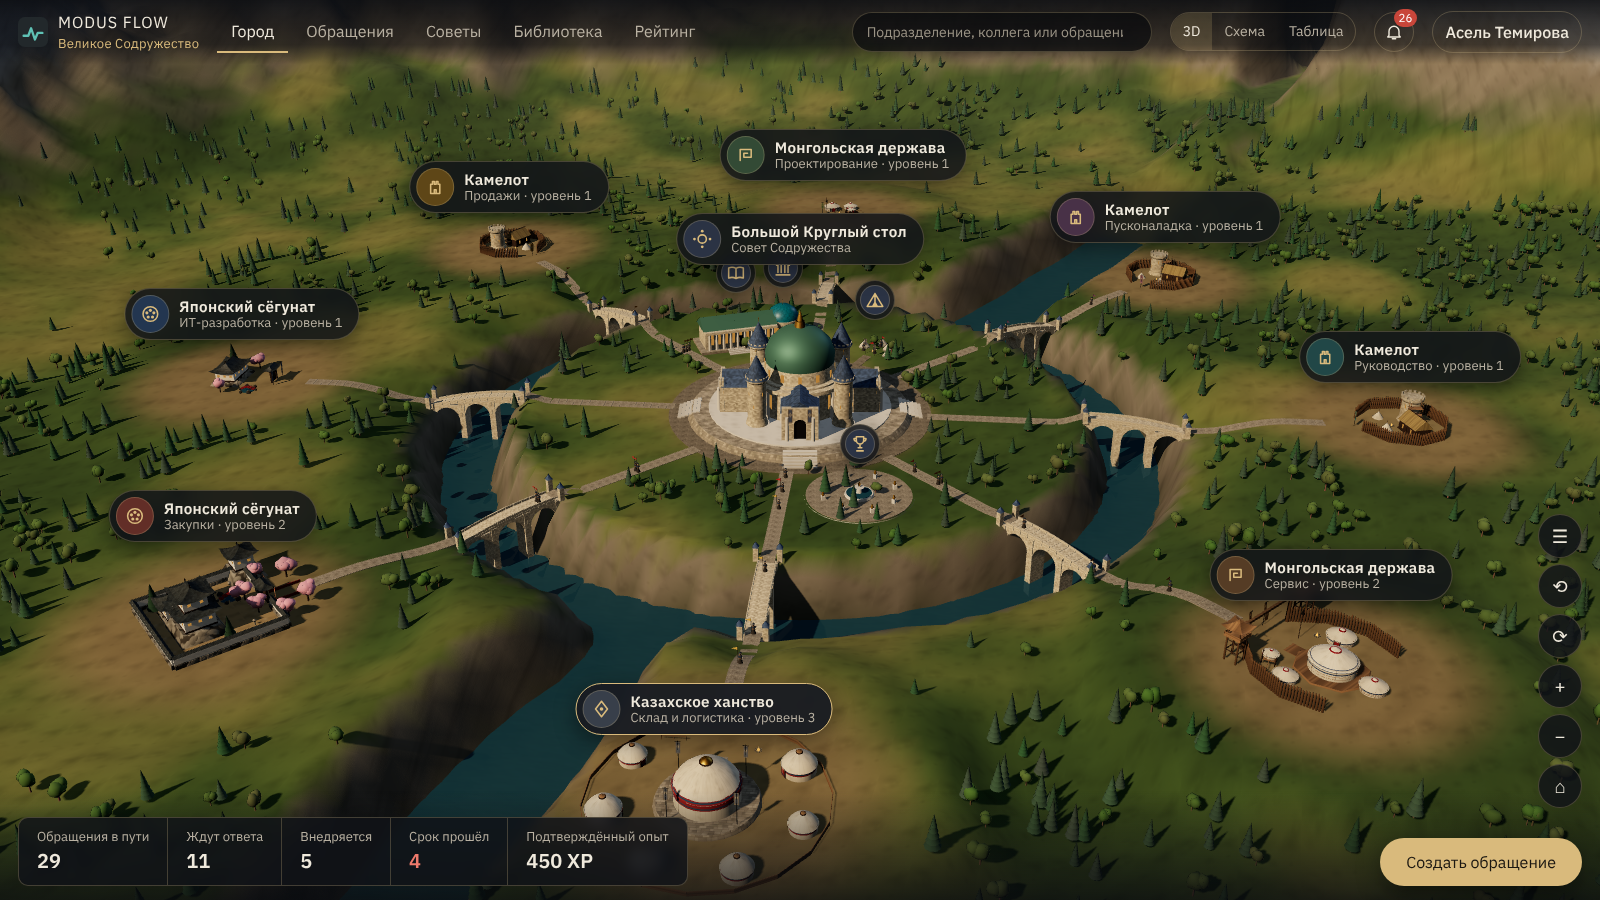
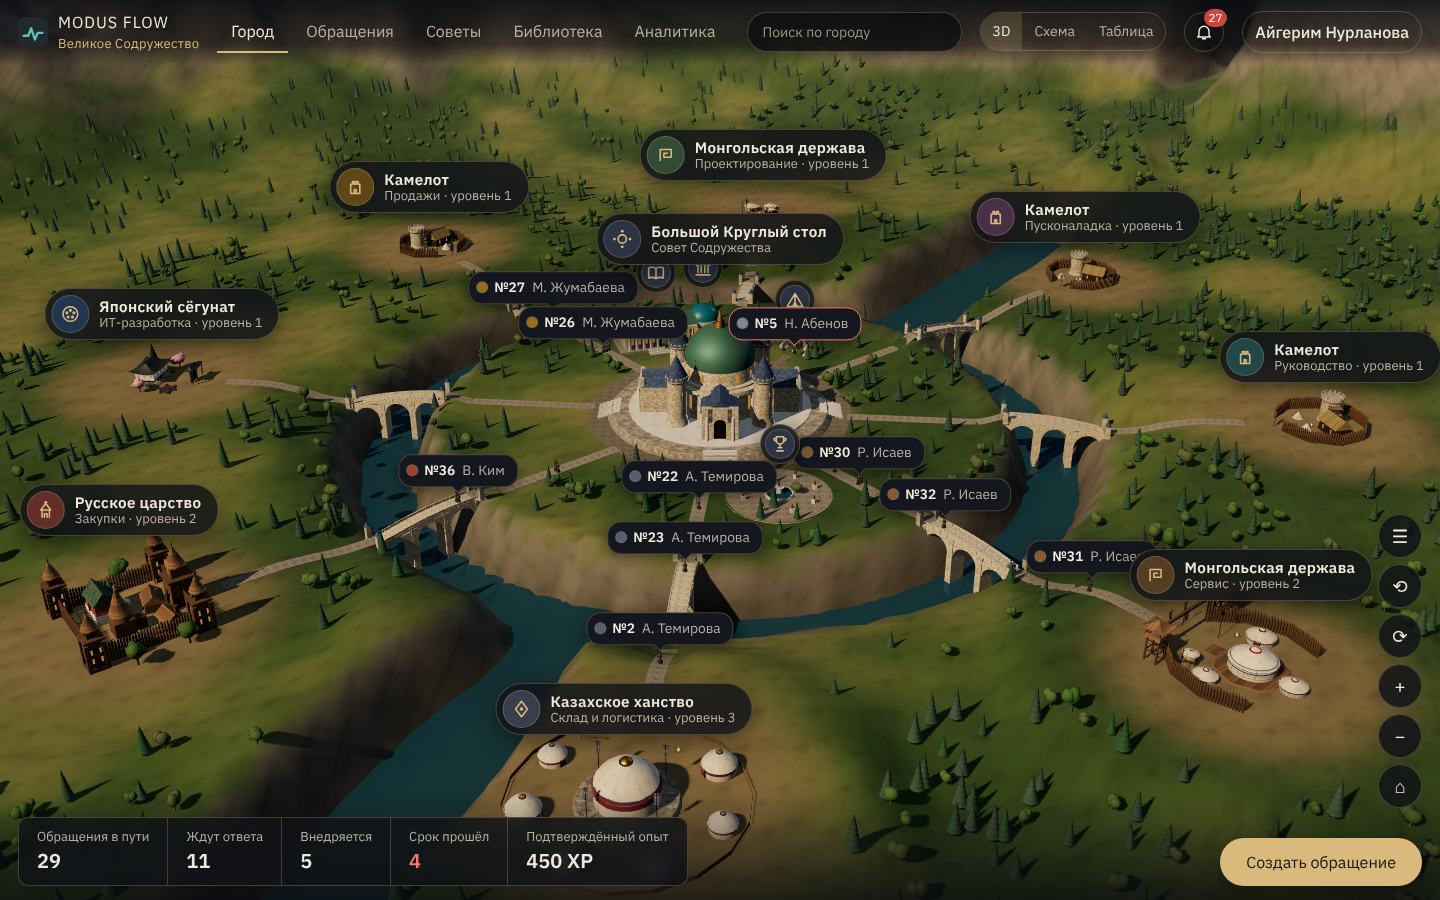
fix(world3d): the top bar of the 3D city stays on one line
The wordmark wrapped into four lines and the search placeholder was cut at
common desktop widths. The wordmark and the sections no longer wrap; between
the phone layout and a wide desktop the subtitle, then the wordmark give way
to the search, and the profile chip shortens. The placeholder is «Поиск по
городу» (the full hint stays in the accessible name). The city screenshot in
the docs is retaken with the Russian district.

Checks are local only: GitHub CI does not run.

Claude-Session: https://claude.ai/code/session_01KCCBh7gyHrpqmyLDhTZ5JF

diff --git a/web/src/styles.css b/web/src/styles.css
@@ -1185,14 +1185,14 @@ button.ts:hover { border-color: var(--accent); color: var(--accent-ink); }
   background: linear-gradient(rgba(10, 12, 16, 0.92), rgba(10, 12, 16, 0.62) 70%, rgba(10, 12, 16, 0));
   z-index: 200000;
 }
-.w3d-brand { display: flex; align-items: center; gap: 10px; text-decoration: none; font-weight: 600; letter-spacing: 0.06em; }
+.w3d-brand { display: flex; align-items: center; gap: 10px; text-decoration: none; font-weight: 600; letter-spacing: 0.06em; flex: none; white-space: nowrap; }
 .w3d-brand img { width: 30px; height: 30px; }
 .w3d-brand small { display: block; font-weight: 400; letter-spacing: 0.02em; color: var(--w-gold); font-size: var(--fs-xs); }
 .w3d-top nav { display: flex; gap: 4px; }
-.w3d-top nav a { padding: 8px 14px; text-decoration: none; color: var(--w-ink-2); border-bottom: 2px solid transparent; }
+.w3d-top nav a { padding: 8px 14px; white-space: nowrap; text-decoration: none; color: var(--w-ink-2); border-bottom: 2px solid transparent; }
 .w3d-top nav a:hover { color: var(--w-ink); }
 .w3d-top nav a[aria-current='page'] { color: var(--w-ink); border-bottom-color: var(--w-gold); }
-.w3d-search { position: relative; margin-left: auto; flex: 0 1 300px; min-width: 0; }
+.w3d-search { position: relative; margin-left: auto; flex: 0 1 340px; min-width: 0; }
 .w3d-search input {
   width: 100%; height: 40px; padding: 0 14px; color: var(--w-ink); background: rgba(8, 10, 13, 0.7);
   border: 1px solid var(--w-line); border-radius: 999px; font: inherit; font-size: var(--fs-sm); user-select: text; -webkit-user-select: text;
@@ -1285,6 +1285,28 @@ button.ts:hover { border-color: var(--accent); color: var(--accent-ink); }
 .w3d-more, .w3d-note { margin: 8px 0 0; font-size: var(--fs-xs); color: var(--w-ink-2); }
 .w3d-toast { position: fixed; left: 50%; top: 84px; transform: translateX(-50%); z-index: 70; }
 
+/* Between a phone and a wide desktop the bar stays on one line: the subtitle and then the wordmark give way to the search. */
+@media (max-width: 1320px) {
+  .w3d-top { gap: 10px; }
+  .w3d-brand small { display: none; }
+  .w3d-top nav a { padding: 8px 10px; }
+  .w3d-search { min-width: 170px; }
+  .w3d-user { max-width: 150px; }
+}
+@media (max-width: 1220px) {
+  .w3d-brand span { display: none; }
+  .w3d-top nav a { padding: 8px 8px; }
+  .w3d-modes button { padding: 8px 10px; }
+  .w3d-user { max-width: 116px; }
+}
+@media (max-width: 1020px) {
+  .w3d-top { gap: 8px; }
+  .w3d-top nav { gap: 0; }
+  .w3d-top nav a { padding: 8px 6px; }
+  .w3d-search { min-width: 104px; }
+  .w3d-modes button { padding: 8px 8px; }
+  .w3d-user { max-width: 84px; padding: 8px 10px; }
+}
 @media (max-width: 900px) {
   .w3d-top { gap: 8px; padding-left: calc(10px + env(safe-area-inset-left)); padding-right: calc(10px + env(safe-area-inset-right)); }
   .w3d-brand span, .w3d-user { display: none; }

diff --git a/web/src/screens/City3D.tsx b/web/src/screens/City3D.tsx
@@ -781,7 +781,7 @@ function Hud({ k, onMode, onPick, onItem, onPerson }: { k: KingdomData; onMode: 
         <input
           type="search"
           value={q}
-          placeholder="Подразделение, коллега или обращение"
+          placeholder="Поиск по городу"
           aria-label="Поиск по городу: подразделения, коллеги, обращения"
           onChange={(e) => {
             setQ(e.target.value);
